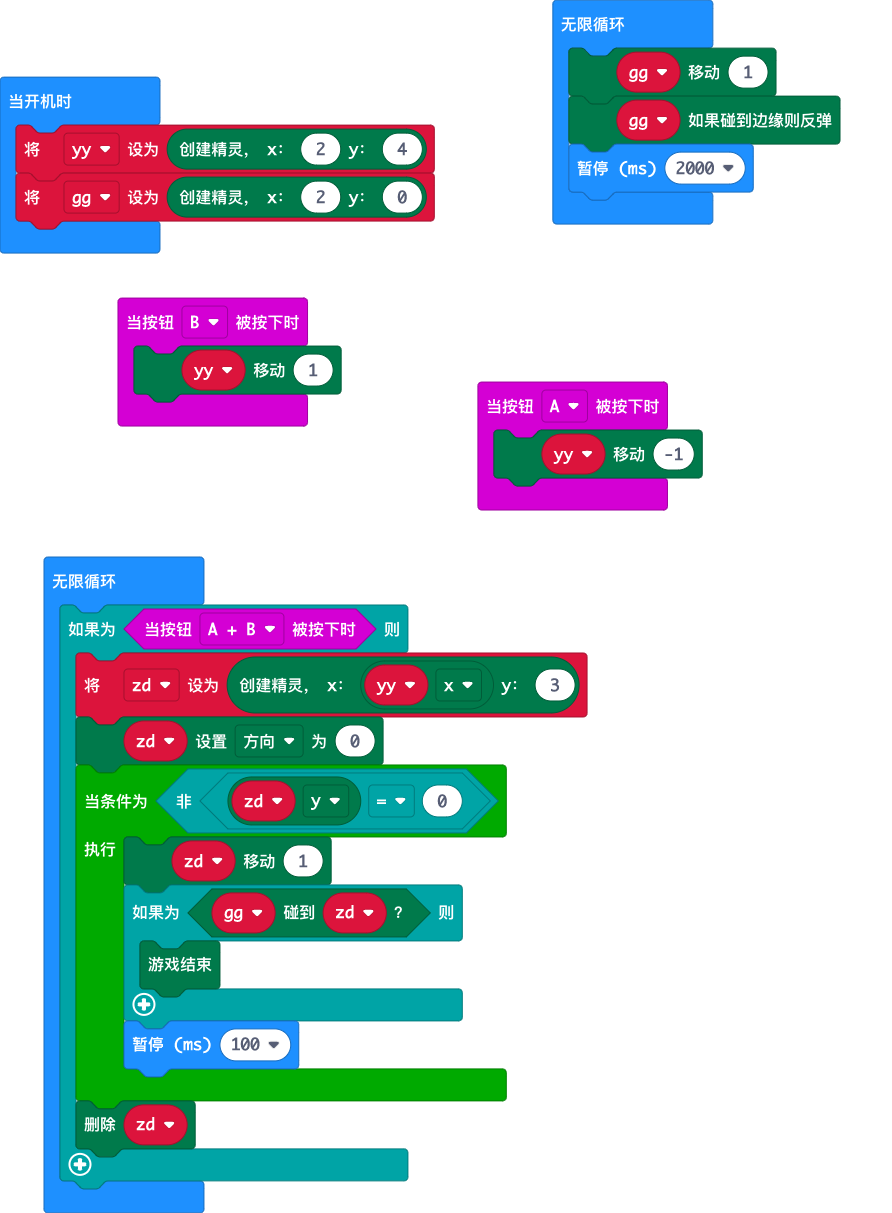
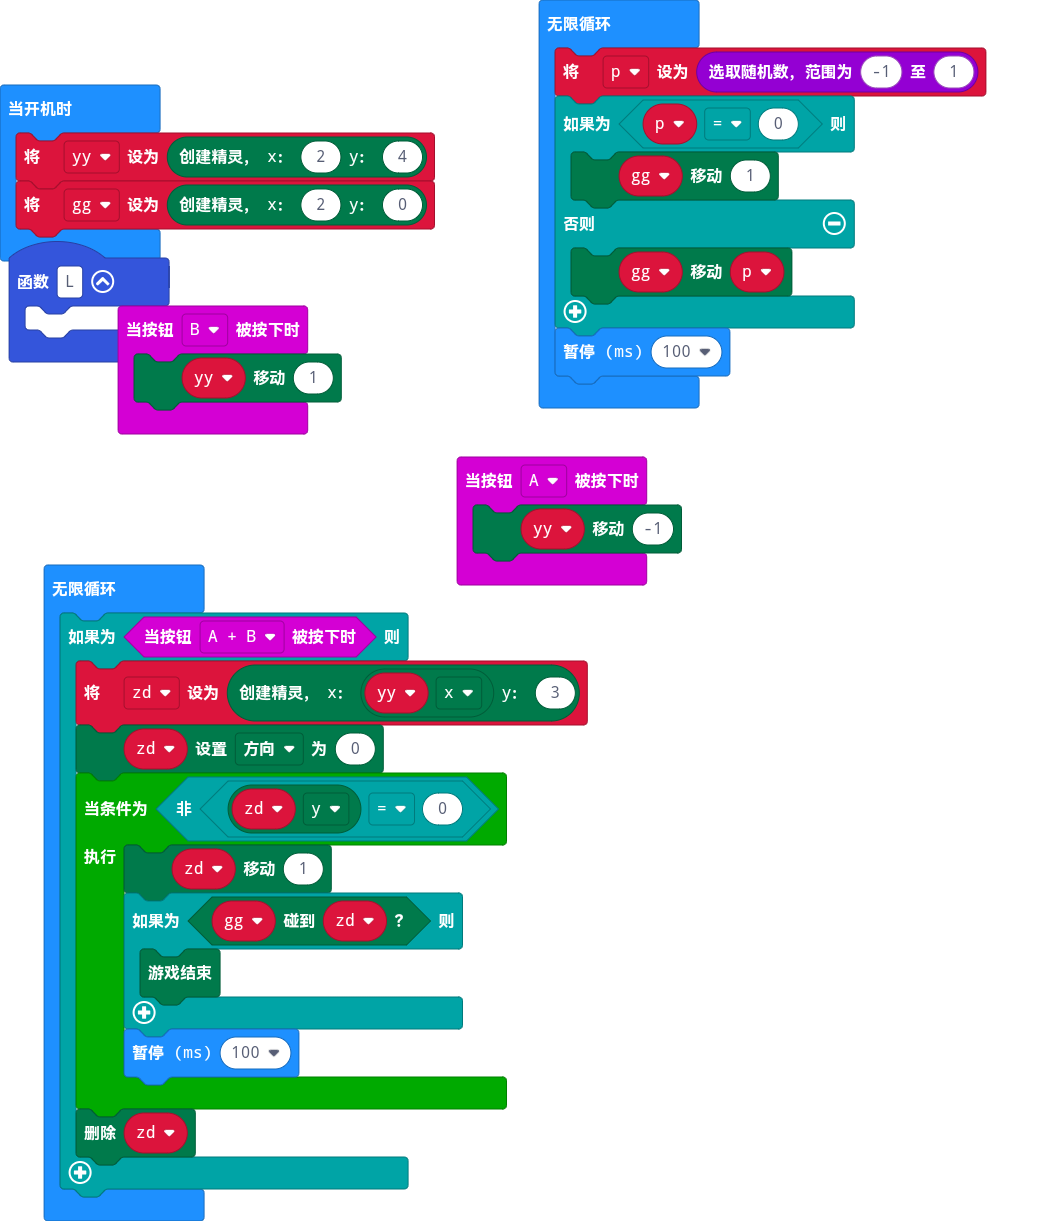
更新 main.blocks, main.ts

diff --git a/main.ts b/main.ts
@@ -1,3 +1,6 @@
+function L () {
+	
+}
 input.onButtonPressed(Button.A, function () {
     yy.move(-1)
 })
@@ -5,13 +8,18 @@ input.onButtonPressed(Button.B, function () {
     yy.move(1)
 })
 let zd: game.LedSprite = null
+let p = 0
 let yy: game.LedSprite = null
 yy = game.createSprite(2, 4)
 let gg = game.createSprite(2, 0)
 basic.forever(function () {
-    gg.move(1)
-    gg.ifOnEdgeBounce()
-    basic.pause(2000)
+    p = randint(-1, 1)
+    if (p == 0) {
+        gg.move(1)
+    } else {
+        gg.move(p)
+    }
+    basic.pause(100)
 })
 basic.forever(function () {
     if (input.buttonIsPressed(Button.AB)) {
